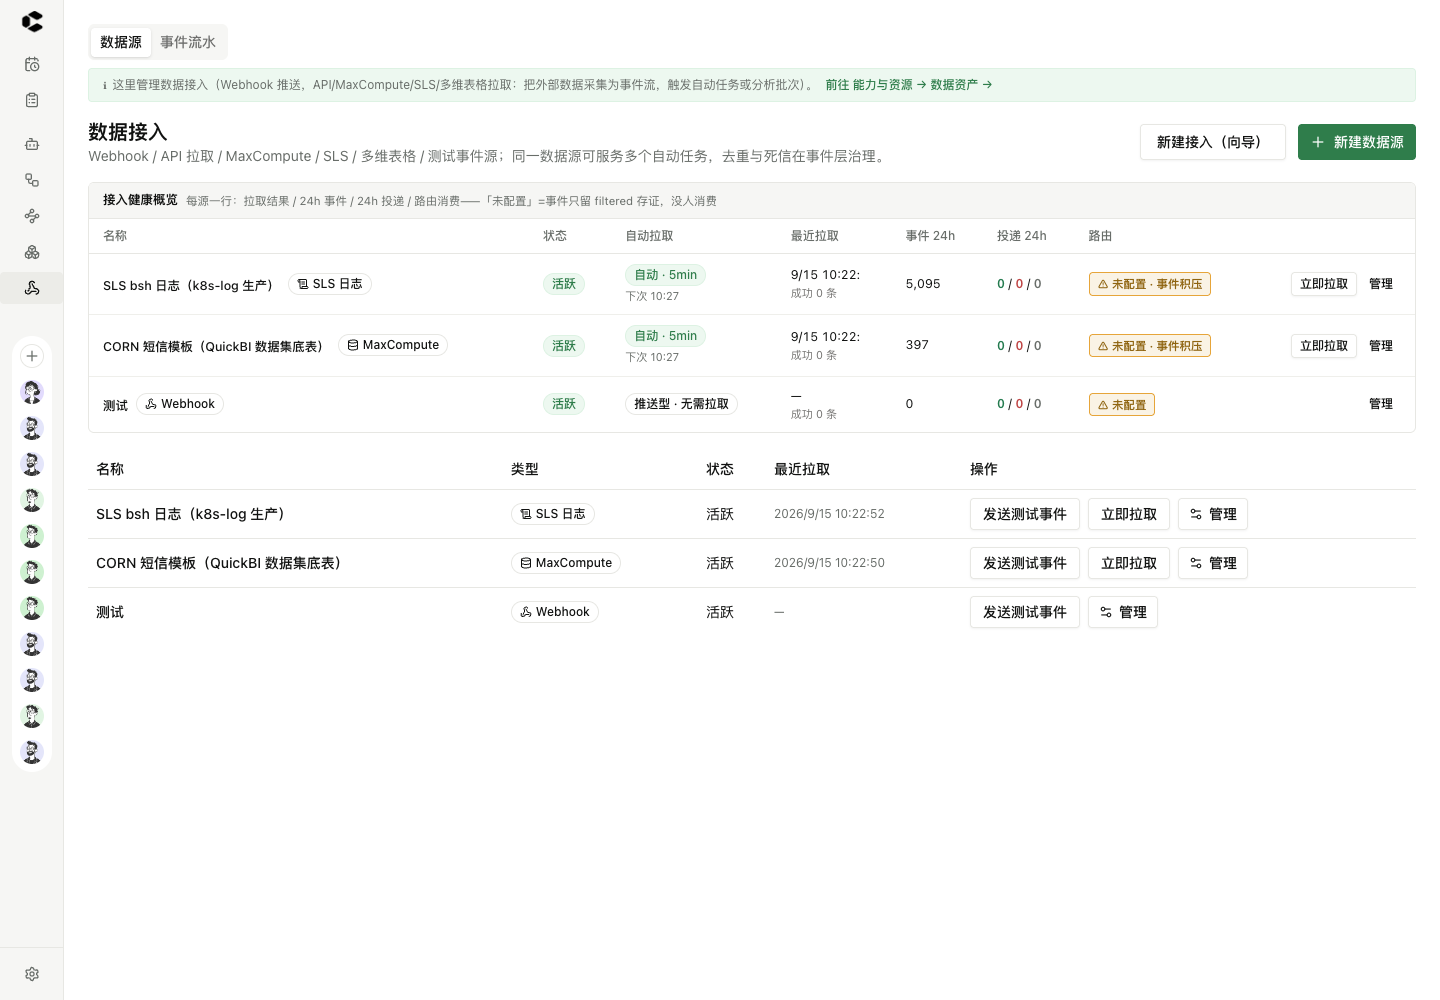
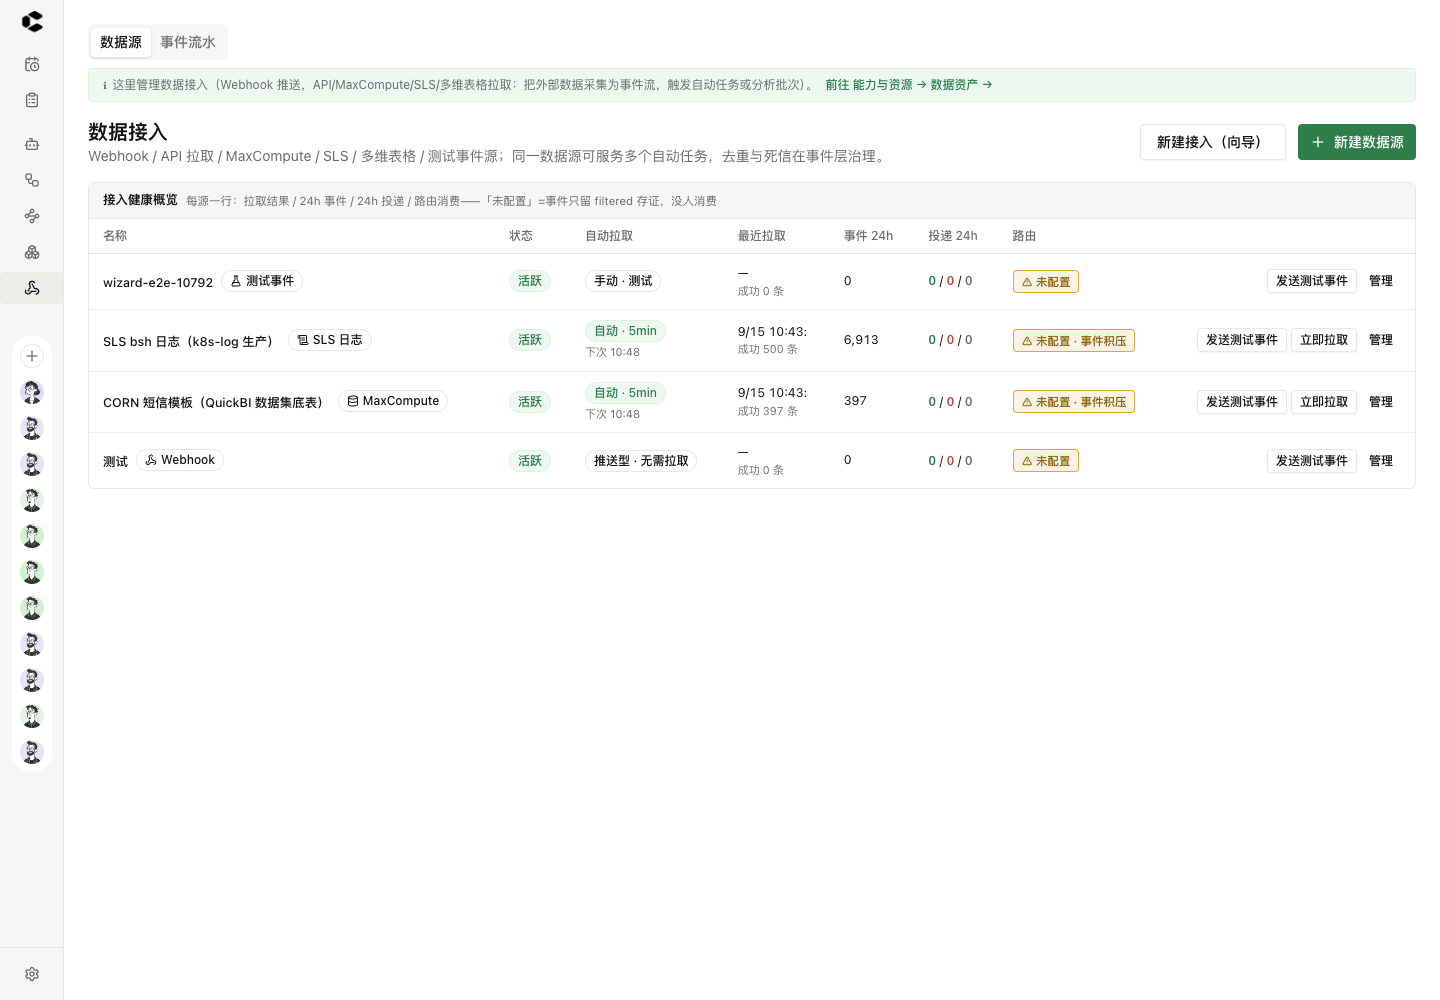
fix(16号稿合并修订): 概览带升级为唯一源表, 删除冗余老列表
用户截图指认上下双表同排=冗余重复(带已含操作按钮, 老列表纯重复):
- HealthBand=唯一源表: 诊断列+全部操作(发送测试事件/立即拉取/管理)+空态引导+
  失败态role=alert+重试; onTest回调接页面测试payload区; bandKey触发重取
- data-sources.tsx 删老列表/pollNow/polling/死导入; 存量失败态测试改驱动healthSummary
  (页面新数据源, 非削弱断言); 76/76+gate --live全绿; 设计稿§4注记同步

diff --git a/src/pages/data-sources.tsx b/src/pages/data-sources.tsx
@@ -18,8 +18,7 @@
  */
 import * as React from "react"
 import { useNavigate, useSearchParams } from "react-router-dom"
-import { CircleCheck, CircleX, Clock, CloudDownload, Copy, Database, FlaskConical, OctagonAlert, Plus, RotateCw, ScrollText, Settings2, Table as TableIcon, Webhook } from "lucide-react"
-import { Badge } from "@/components/ui/badge"
+import { CircleCheck, CircleX, Clock, CloudDownload, Copy, Database, FlaskConical, OctagonAlert, Plus, ScrollText, Table as TableIcon, Webhook } from "lucide-react"
 import { Button } from "@/components/ui/button"
 import {
   Dialog,
@@ -39,18 +38,10 @@ import {
   SelectValue,
 } from "@/components/ui/select"
 import { Textarea } from "@/components/ui/textarea"
-import {
-  Table,
-  TableBody,
-  TableCell,
-  TableHead,
-  TableHeader,
-  TableRow,
-} from "@/components/ui/table"
 import { Link } from "react-router-dom"
 import { IA_BOUNDARY } from "@/config/ui-terms"
 import { HealthBand } from "@/components/ingress/health-band"
-import { asApi, type CreateSourceBody, type SourceRow } from "@/services/as-api"
+import { asApi, type CreateSourceBody } from "@/services/as-api"
 import { connApi } from "@/services/resource-api"
 import { Tabs, TabsContent, TabsList, TabsTrigger } from "@/components/ui/tabs"
 import { useAsyncData } from "@/hooks/use-async-data"
@@ -58,19 +49,14 @@ import { toast } from "sonner"
 
 /* 09-14 类型体系常量与按型字段组：16 号稿 B2 起单点在共享组件（老 Dialog 与向导共用） */
 import {
-  EMPTY_SOURCE_FORM, KIND_ICON, KIND_LABEL, PULL_KINDS,
-  SourceKindFields, deriveSourcePayload, type SourceFormState,
+  EMPTY_SOURCE_FORM, SourceKindFields, deriveSourcePayload, type SourceFormState,
 } from "@/components/ingress/source-kind-fields"
 
-const STATUS_LABEL: Record<string, string> = {
-  active: "活跃",
-  paused: "已暂停",
-  error: "异常",
-}
 
 export default function DataSourcesPage() {
   const navigate = useNavigate()
-  const list = useAsyncData((o) => asApi.sources(o?.signal), [])
+  /* 16 号稿 B4 合并：源表唯一=HealthBand；bandKey 触发其重取 */
+  const [bandKey, setBandKey] = React.useState(0)
   const [open, setOpen] = React.useState(false)
   const [form, setForm] = React.useState<SourceFormState>(EMPTY_SOURCE_FORM)
   const [token, setToken] = React.useState<string | null>(null)
@@ -93,9 +79,7 @@ export default function DataSourcesPage() {
       setCatalogErr((e as Error).message)
     }
   }
-  const [polling, setPolling] = React.useState<string | null>(null)
 
-  const rows: SourceRow[] = list.data?.items ?? []
   const set = (patch: Partial<SourceFormState>) => setForm((f) => ({ ...f, ...patch }))
 
   const create = async () => {
@@ -120,7 +104,7 @@ export default function DataSourcesPage() {
       })
       setOpen(false)
       setForm(EMPTY_SOURCE_FORM)
-      list.retry()
+      setBandKey((k) => k + 1)
       if (r.webhook_token) {
         setToken(String(r.webhook_token))  // 一次性交付弹窗
       } else {
@@ -130,20 +114,6 @@ export default function DataSourcesPage() {
       toast.error(`创建失败：${(e as Error).message}`)
     } finally {
       setCreating(false)
-    }
-  }
-
-  const pollNow = async (s: SourceRow) => {
-    setPolling(s.id)
-    try {
-      const r = await asApi.pollSource(s.id)
-      toast.success(`拉取完成：${r.polled} 条，派发 ${r.dispatched} 条`)
-      list.retry()
-    } catch (e) {
-      toast.error(`拉取失败：${(e as Error).message}`)
-      list.retry()
-    } finally {
-      setPolling(null)
     }
   }
 
@@ -263,75 +233,8 @@ export default function DataSourcesPage() {
       </Dialog>
 
       {/* 16 号稿 B4：接入健康概览带（每源诊断；老列表保留在其下） */}
-      <HealthBand />
+      <HealthBand key={bandKey} onTest={setTestTarget} />
       {/* 09-13 审计修复：loading / error / empty 三态分离，失败不再伪装成「暂无数据源」 */}
-      {list.error ? (
-        <div className="flex flex-col items-center gap-2 rounded-md border border-status-danger/40 p-8 text-sm" role="alert">
-          <span className="text-status-danger">数据源列表加载失败：{list.error}</span>
-          <Button size="sm" variant="outline" onClick={() => list.retry()}>
-            <RotateCw className="size-3.5" /> 重试
-          </Button>
-        </div>
-      ) : list.loading && !list.data ? (
-        <div className="rounded-md border p-8 text-center text-sm text-muted-foreground">加载中…</div>
-      ) : (
-        <Table>
-          <TableHeader>
-            <TableRow>
-              <TableHead>名称</TableHead>
-              <TableHead>类型</TableHead>
-              <TableHead>状态</TableHead>
-              <TableHead>最近拉取</TableHead>
-              <TableHead>操作</TableHead>
-            </TableRow>
-          </TableHeader>
-          <TableBody>
-            {rows.map((s) => (
-              <TableRow key={s.id}>
-                <TableCell className="font-medium">{s.name}</TableCell>
-                <TableCell>
-                  <Badge variant="outline">
-                    {(() => { const I = KIND_ICON[s.kind as keyof typeof KIND_ICON] ?? Webhook
-                      return <I className="size-3" /> })()}
-                    {KIND_LABEL[s.kind] ?? s.kind}
-                  </Badge>
-                </TableCell>
-                <TableCell>{STATUS_LABEL[s.status] ?? s.status}</TableCell>
-                <TableCell className="text-xs text-muted-foreground">
-                  {s.last_poll_at ? new Date(s.last_poll_at).toLocaleString() : "—"}
-                </TableCell>
-                <TableCell>
-                  <div className="flex items-center gap-2">
-                    <Button size="sm" variant="outline" onClick={() => setTestTarget(s.id)}>
-                      发送测试事件
-                    </Button>
-                    {PULL_KINDS.includes(s.kind) && (
-                      <Button size="sm" variant="outline" disabled={polling === s.id}
-                              onClick={() => void pollNow(s)}>
-                        {polling === s.id ? "拉取中…" : "立即拉取"}
-                      </Button>
-                    )}
-                    {/* 09-14 D3 拍板：治理入口=独立详情页（非抽屉） */}
-                    <Button size="sm" variant="outline"
-                            onClick={() => navigate(`/data-sources/${s.id}`)}>
-                      <Settings2 className="size-3.5" /> 管理
-                    </Button>
-                  </div>
-                </TableCell>
-              </TableRow>
-            ))}
-            {!rows.length && (
-              <TableRow>
-                <TableCell colSpan={5} className="py-8 text-center text-sm text-muted-foreground">
-                  暂无数据源。创建 Webhook 源后可用「发送测试事件」验证接入链路；
-                  拉取型源由平台按设定间隔自动拉取，也可在列表中「立即拉取」。
-                </TableCell>
-              </TableRow>
-            )}
-          </TableBody>
-        </Table>
-      )}
-
       {testTarget && (
         <div className="rounded-md border p-3">
           <Label htmlFor="ds-test-payload">测试 payload（JSON）</Label>

diff --git a/src/components/ingress/health-band.tsx b/src/components/ingress/health-band.tsx
@@ -47,19 +47,27 @@ function AutoPill({ row }: { row: SourceHealthRow }) {
   )
 }
 
-export function HealthBand() {
+export function HealthBand({ onTest }: { onTest?: (id: string) => void }) {
   const navigate = useNavigate()
   const data = useAsyncData(() => asApi.healthSummary(), [])
   if (data.error) {
     return (
-      <div className="rounded-md border px-3 py-2 text-sm"
+      <div role="alert" className="flex items-center gap-3 rounded-md border px-3 py-2 text-sm"
            style={{ borderColor: "var(--status-danger)", color: "var(--status-danger-text)" }}>
-        接入健康概览加载失败：{data.error}
+        <span>数据源列表加载失败：{data.error}</span>
+        <Button size="xs" variant="outline" onClick={() => data.retry()}>重试</Button>
       </div>
     )
   }
   const rows = data.data?.items ?? []
-  if (!data.loading && rows.length === 0) return null
+  if (!data.loading && rows.length === 0) {
+    return (
+      <p className="rounded-md border border-dashed px-3 py-8 text-center text-sm text-muted-foreground">
+        暂无数据源。创建 Webhook 源后可用「发送测试事件」验证接入链路；
+        拉取型源由平台按设定间隔自动拉取，也可在列表中「立即拉取」。
+      </p>
+    )
+  }
   return (
     <div className="overflow-hidden rounded-lg border" style={{ borderColor: "var(--border)" }}>
       <div className="flex items-center gap-2 border-b px-3.5 py-2"
@@ -133,6 +141,9 @@ export function HealthBand() {
                   </td>
                   <td className="px-3.5 py-2.5 text-right">
                     <div className="flex justify-end gap-1">
+                      {onTest && (
+                        <Button size="xs" variant="outline" onClick={() => onTest(r.sourceId)}>发送测试事件</Button>
+                      )}
                       {PULL_KINDS.includes(r.kind) && (
                         <Button size="xs" variant="outline" onClick={() => {
                           void asApi.pollSource(r.sourceId).then(

diff --git a/src/pages/data-sources.rework.test.tsx b/src/pages/data-sources.rework.test.tsx
@@ -27,14 +27,15 @@ const sources = vi.fn()
 const createSource = vi.fn()
 const testEvent = vi.fn()
 const pollSource = vi.fn()
+const healthSummary = vi.fn((..._a: unknown[]) => Promise.resolve({ items: [] }))
 vi.mock("@/services/as-api", () => ({
   asApi: {
     sources: (...a: unknown[]) => sources(...a),
     createSource: (...a: unknown[]) => createSource(...a),
     testEvent: (...a: unknown[]) => testEvent(...a),
     pollSource: (...a: unknown[]) => pollSource(...a),
-    /* 16 号稿 B4：页面新增概览带依赖 */
-    healthSummary: () => Promise.resolve({ items: [] }),
+    /* 16 号稿 B4 合并：源表唯一=概览带，失败态由其驱动 */
+    healthSummary: (...a: unknown[]) => healthSummary(...a),
   },
 }))
 const toastError = vi.fn()
@@ -102,7 +103,7 @@ describe("DataSources 审计返工锁定", () => {
   })
 
   it("列表失败显示错误态与重试，不再伪装暂无数据源", async () => {
-    sources.mockRejectedValue(new Error("net-down"))
+    healthSummary.mockRejectedValueOnce(new Error("net-down"))
     render(<MemoryRouter><DataSourcesPage /></MemoryRouter>)
     await waitFor(() =>
       expect(screen.getByRole("alert").textContent).toContain("net-down"))

diff --git a/docs/v2-design/16-ingress-wizard-health-band.md b/docs/v2-design/16-ingress-wizard-health-band.md
@@ -1,0 +1,106 @@
+# 16 号稿：新建接入一站式向导 + 接入健康概览带（A 案详细设计）
+
+状态：**待用户确认，未动工**（2026-09-15 用户拍板 A 案=向导+概览带，先设计后动工）。
+上位约束：IA 不再搬移（设置→连接=终版，本稿零 IA 变更）；向导是**流程**不是**位置**；
+老入口全保留；组件复用优先、禁平行重写（[[ui-consistency-demand]] [[standard-components-demand]]）。
+
+## 1. 现状事实（代码核对，2026-09-15）
+
+| 事实 | 证据 | 设计后果 |
+| --- | --- | --- |
+| DataSource 无失败原因列：poll 失败仅 `status="error"`，消息只进 HTTP 502 不落库 | models.py:1474-1492；as_automations.py:1731/1767 | 后端变更①：迁移加列 |
+| **全站无路由创建 UI**：as-api 无 createRoute 方法；data-source-detail 仅路由列表（:599）；路由至今只能 API/脚本建 | grep 全 src 无 createRoute | 向导步④=首个路由创建 UI；同款表单回填详情页「路由治理」补创建入口（可见性=交付规约） |
+| 路由 API 现成：POST/PUT/DELETE /api/v2/event-routes（F5 八端点） | event_routes.py:216+ | 后端零路由逻辑改动 |
+| 六型源表单字段内联在 data-sources.tsx 创建 Dialog（369-548 行） | data-sources.tsx | 前端变更①：抽 `SourceKindFields` 共享组件，老 Dialog 与向导共用 |
+| Connection 表单按协议分字段在 wf-connections.tsx（EpFields/secret 区） | wf-connections.tsx | 前端变更②：抽 `ConnectionFormFields`，向导内联建连接复用 |
+| 目录发现两级选择器（connId→catalog）已在创建 Dialog 内 | data-sources.tsx:400-432 | 随 SourceKindFields 一起抽 |
+| 事件/投递 24h 统计无聚合端点；逐源客户端拉=N+1 | event_routes.py list 端点 | 后端变更②：聚合端点+ N+1 门禁断言 |
+| **自动拉取层残缺（09-15 用户质疑「都要主动去拉取么」实证）**：watcher 仅当 `config.interval_seconds>0` 才自动 tick（automation_watcher.py:249-251），但创建表单只给 api_pull 写 interval——maxcompute/sls/多维表格三型 interval 恒 0=事实手动-only；两个真实源（SLS bsh/CORN）已于 09-15 补 300s | automation_watcher.py:247-254；data-sources.tsx 表单 | 前端变更③：**所有 PULL_KINDS 表单（老 Dialog+向导步③+详情页编辑器）补「自动拉取间隔」字段**（默认 300s；0=仅手动并显式警示）；概览带加「自动拉取」列 |
+
+## 2. 入口与 IA（零变更承诺）
+
+- 设置→连接、能力与资源→数据资产、数据接入（源+事件流水）三处**不动**。
+- 数据接入页头部新增主按钮「新建接入（向导）」；原「新建数据源」按钮保留为次按钮。
+- 向导=独立全页 `/data-sources/wizard`（D3 先例：操作量大的流程给整页，不用 Dialog）。
+- 概览带=数据接入页「数据源」tab 内、表格上方常驻。
+
+## 3. 向导流程（五步状态机）
+
+```
+① 类型 → ② 凭据 → ③ 源配置 → ④ 路由(可跳过) → ⑤ 完成
+   ↑________ 任意步可回退，表单状态保留 ________↑
+```
+
+**步① 类型**：六型卡（复用 KIND_LABEL/KIND_ICON）+每型一句「什么时候选我」；
+test_event 卡标注「仅链路验证，不接真实系统」。
+
+**步② 凭据**（按型分流）：
+- webhook：整步跳过（显示「无需凭据，保存后交付一次性 token」预告）。
+- 其余五型三选一 Radio：
+  a. **复用连接**：Select 按 protocol 过滤现有 Connection（maxcompute/sls→同名协议；api_pull/feishu→http-api）；
+  b. **内联新建**：嵌 `ConnectionFormFields`（协议锁定为当前型），名称自动建议 `<源名>-conn` 可改；
+     落库为**普通可复用 Connection**（不加单次标记——将来复用是优点）；
+  c. **不用连接**：源级凭据 JSON 或匿名（表单如实说明限制，沿用现 honest-note 文案）。
+- 凭据字段永不回显；内联新建的 secret 走现有创建 API 加密链路。
+
+**步③ 源配置**：`SourceKindFields`（现 Dialog 字段原样抽出）+ 映射/过滤折叠区；
+选了连接且协议=maxcompute/sls 时显示目录选择器（复用 loadCatalog）；
+**所有 PULL_KINDS 显示「自动拉取间隔（秒）」字段（默认 300；0=仅手动，note 显式警示
+「watcher 不会自动拉取」）**——修 09-15 实证的自动层残缺（现状仅 api_pull 有 interval）。
+
+**步④ 路由（可跳过）**：`RouteForm` 最小表单=名称 + 目的地类型 XOR
+（automation｜analysis_task，Select 列现有定义）+ 目的地实例 Select + 说明（可选）。
+跳过按钮文案=「暂不配置：事件仅留 filtered 存证，稍后可在详情页补」——**不伪装成已配置**。
+
+**步⑤ 完成**：提交语义=**单次 apply 顺序创建** connection?(内联)→source→route；
+任一失败=停在该实体、显示后端错误原文、可重试（按名称幂等防撞：重名报明错不静默覆盖）；
+成功页列创建清单（名称+id）+ 三按钮：立即拉取验证（pull 型）/ 查看事件流水 / 返回列表。
+
+## 4. 接入健康概览带
+
+数据源 tab 表格上方紧凑表（每源一行，列）：
+名称+型 icon ｜ 状态徽章 ｜ **自动拉取（pill：自动·5min / 手动 / 推送型·无需拉取；subline=下次拉取时刻或 interval=0）** ｜
+最近拉取（时间 + 成功 n 条 / **失败原因 inline 红字**）｜
+事件 24h ｜ 投递 24h（completed/failed/dead 三色计数）｜ 路由（n 条 / **「未配置」警告 chip**）｜ 操作（发送测试事件/立即拉取降为次级/管理；空态=虚线框引导文案）。
+- 「未配置」chip 点击 → 直达该源详情页路由治理区（含新创建入口）或向导步④预填。
+- filtered 占比高时在路由列旁提示「事件在积压未消费」——治「看不懂」的第二半。
+
+**聚合端点契约**：`GET /api/v2/data-sources/health-summary`
+→ `{items:[{sourceId,status,lastPollAt,lastPollOk,lastPollError,lastPollCount,
+events24h,deliveries24h:{completed,failed,dead,filtered},routeCount}]}`；
+单条聚合 SQL（join+group by），进 test_audit_nplus1 断言清单。
+
+## 5. 后端变更清单（3 项，均小）
+
+1. **迁移 g061**：data_source 加 `last_poll_error Text default ''`、`last_poll_ok Boolean default true`、
+   `last_poll_count Integer default 0`；tick 成功/失败两路都写（成功清空 error）。
+2. **health-summary 端点**（require_role()）+ 24h 窗口用业务时区（09-13 教训）。
+3. as-api 客户端：`createRoute` / `healthSummary` 两方法+DTO。
+
+## 6. 前端变更清单
+
+1. 抽 `SourceKindFields`（data-sources.tsx 创建 Dialog 字段组+目录选择器）→ 老 Dialog 改用它（行为不变）。
+2. 抽 `ConnectionFormFields`（wf-connections.tsx 协议字段+secret 区）→ 老连接 Dialog 改用它。
+3. 新 `RouteForm`（最小）→ 向导步④ + data-source-detail 路由治理区**补创建入口**（列表旁「新建路由」按钮）。
+4. 新页 `/data-sources/wizard`（五步状态机+apply 语义）。
+5. 概览带组件（health-summary 驱动，loading/error/empty 三态）。
+6. ui-terms：GLOSSARY 增「接入向导」「接入健康」两条；边界条文案不动。
+
+## 7. 测试与验收
+
+- pytest：g061 双路写列、health-summary 聚合正确性（含时区窗）、nplus1 断言、poll 失败留 error 文案。
+- vitest：向导步迁移/内联连接 payload 形状/跳过路由语义/重名报错（+存量 76 不回归）。
+- e2e（puppeteer 真浏览器）：test_event 型走完五步（无外部调用）+ sls 型复用现有连接跳路由；
+  概览带显示未配置 chip；详情页新建路由可用。
+- 逐屏截图交签（向导五步+概览带+详情页路由创建），门禁 gate.sh --live 两遍绿。
+
+## 8. 风险与非目标
+
+- 风险：两处已审计页面的抽取重构→存量 vitest+门禁+前后截图对比兜底；向导与老 Dialog 双入口漂移→共享组件单点。
+- 非目标：路由编辑器全量重设计（PUT/DELETE 仍在详情页+API）；IA 搬移；自动调度新语义；
+  Connection 健康探针 per-connection 路径（另案登记不变）。
+
+## 9. 工时拆分
+
+B1 后端 3 项（0.5d）→ B2 三组件抽取+老页面回归（1d）→ B3 向导页（1.5d）→
+B4 概览带+详情页路由创建（1d）→ B5 测试/e2e/截图/门禁（1d）。合计约 5 人日，按批次交付每批可验收。
